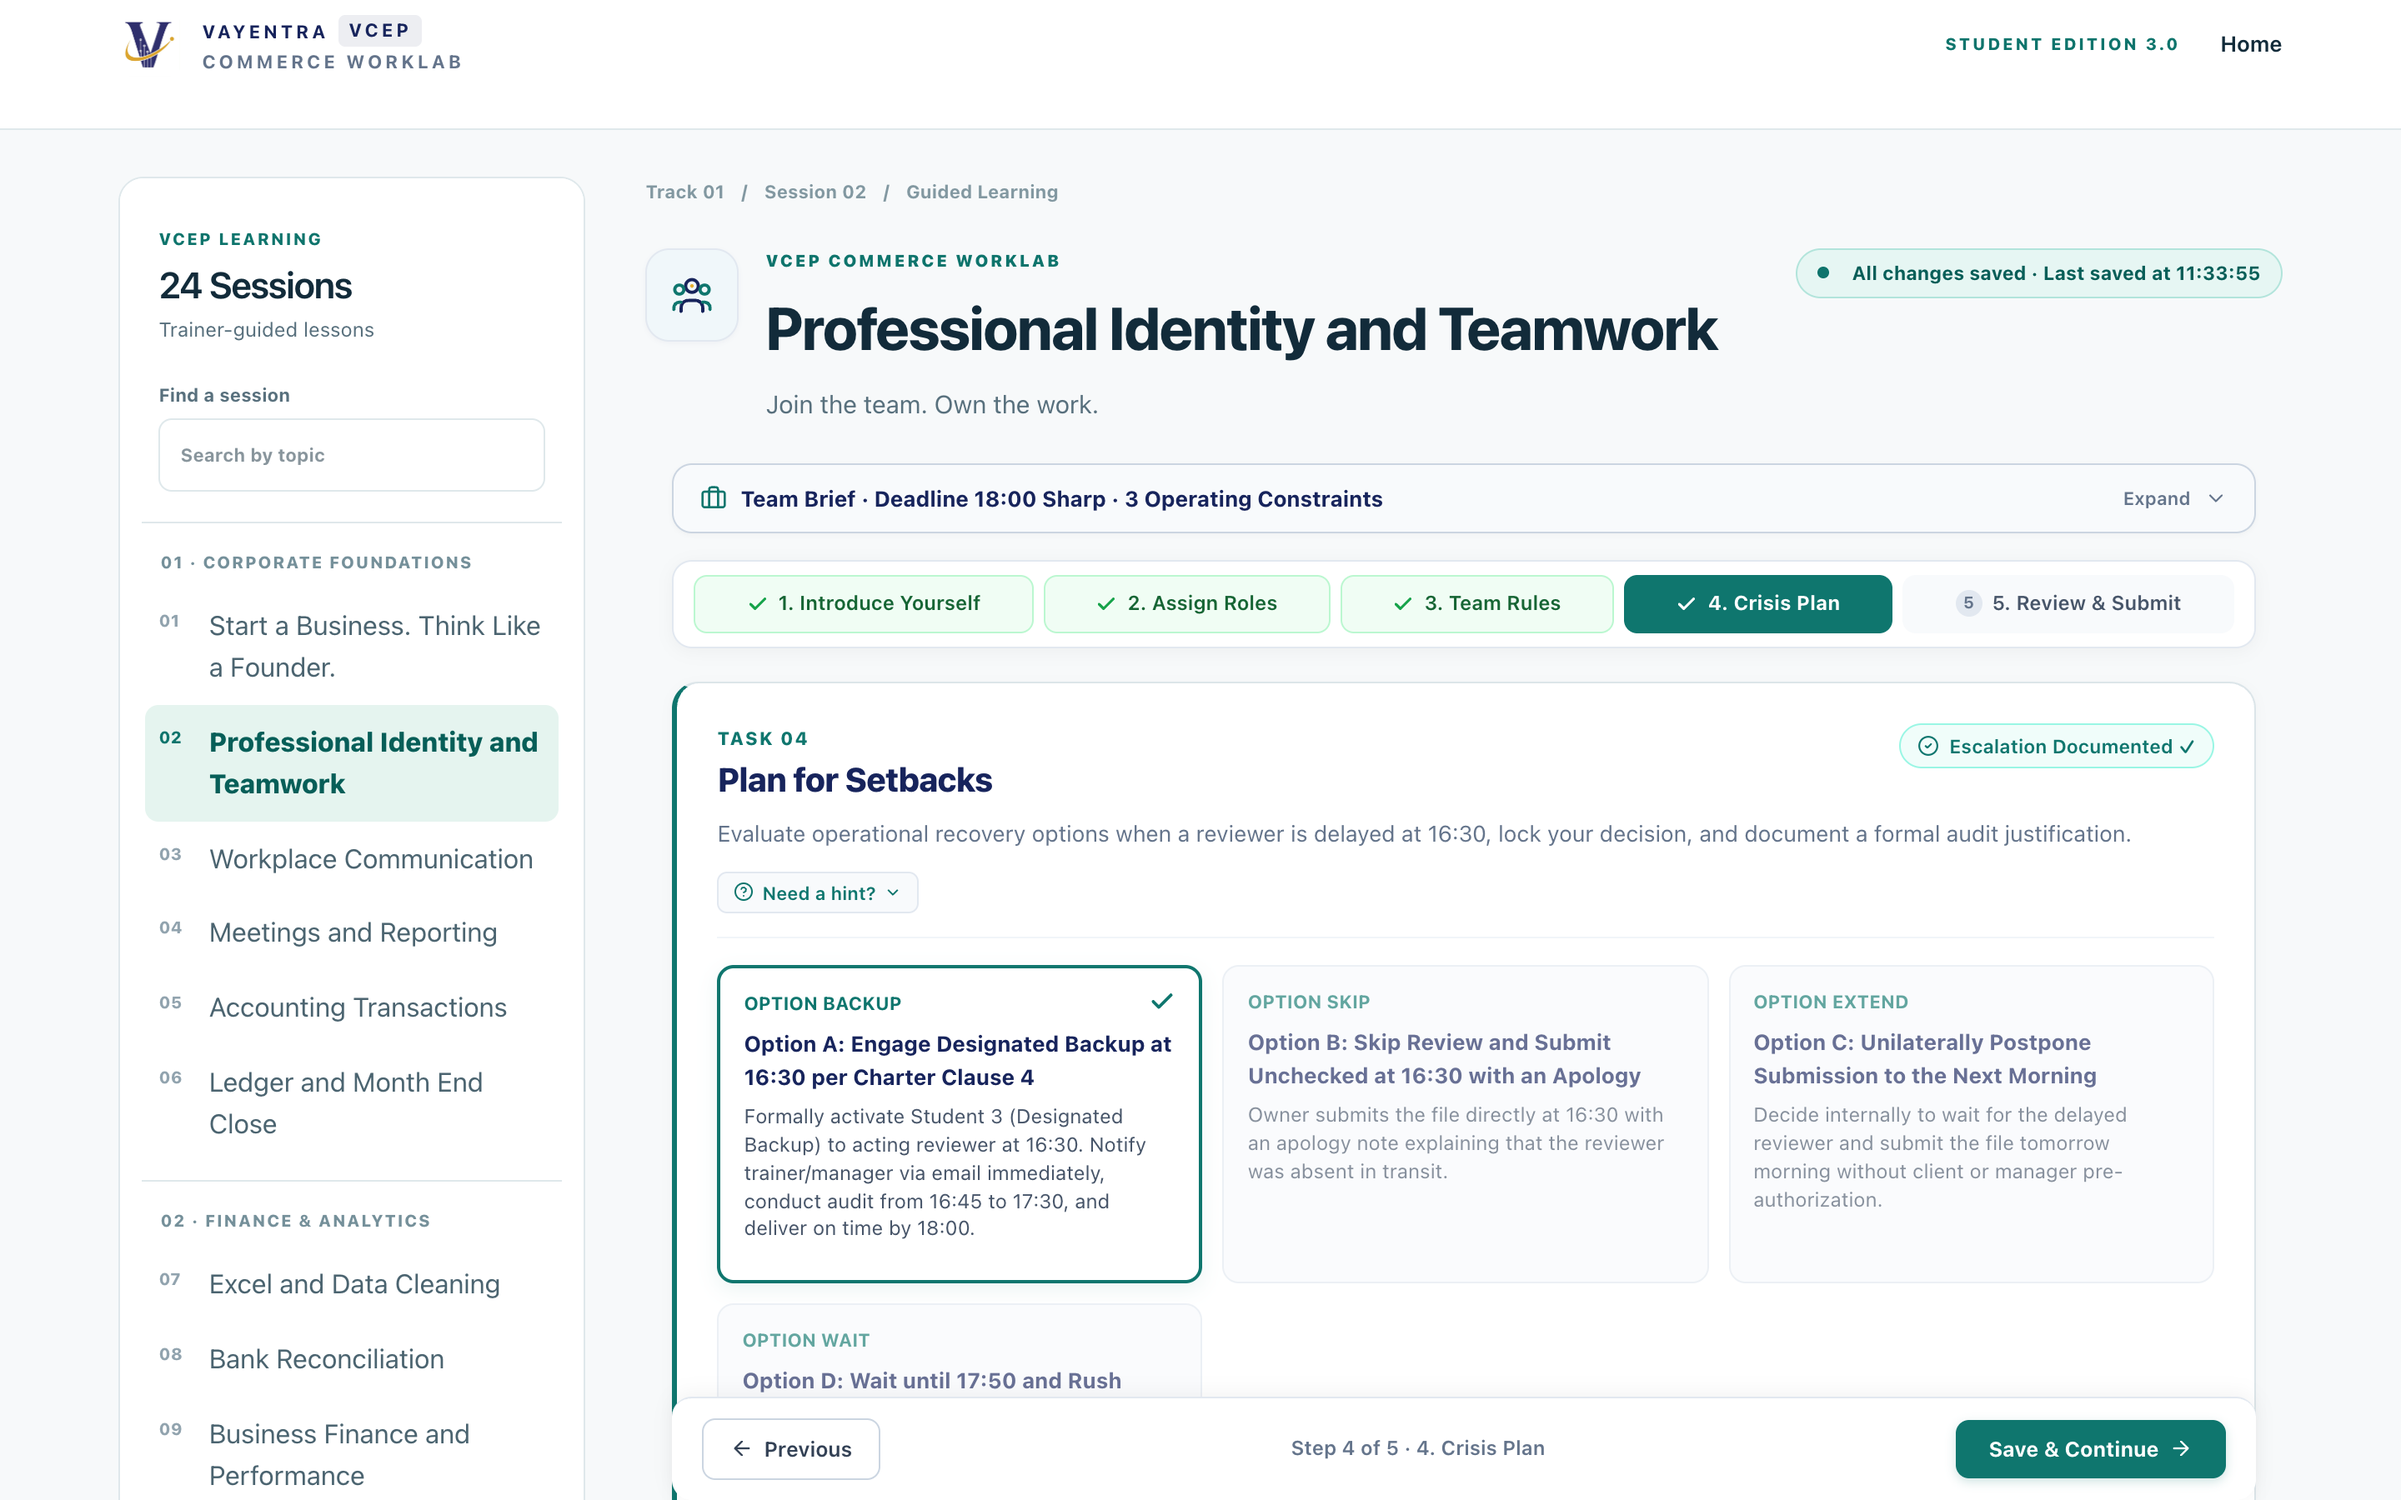
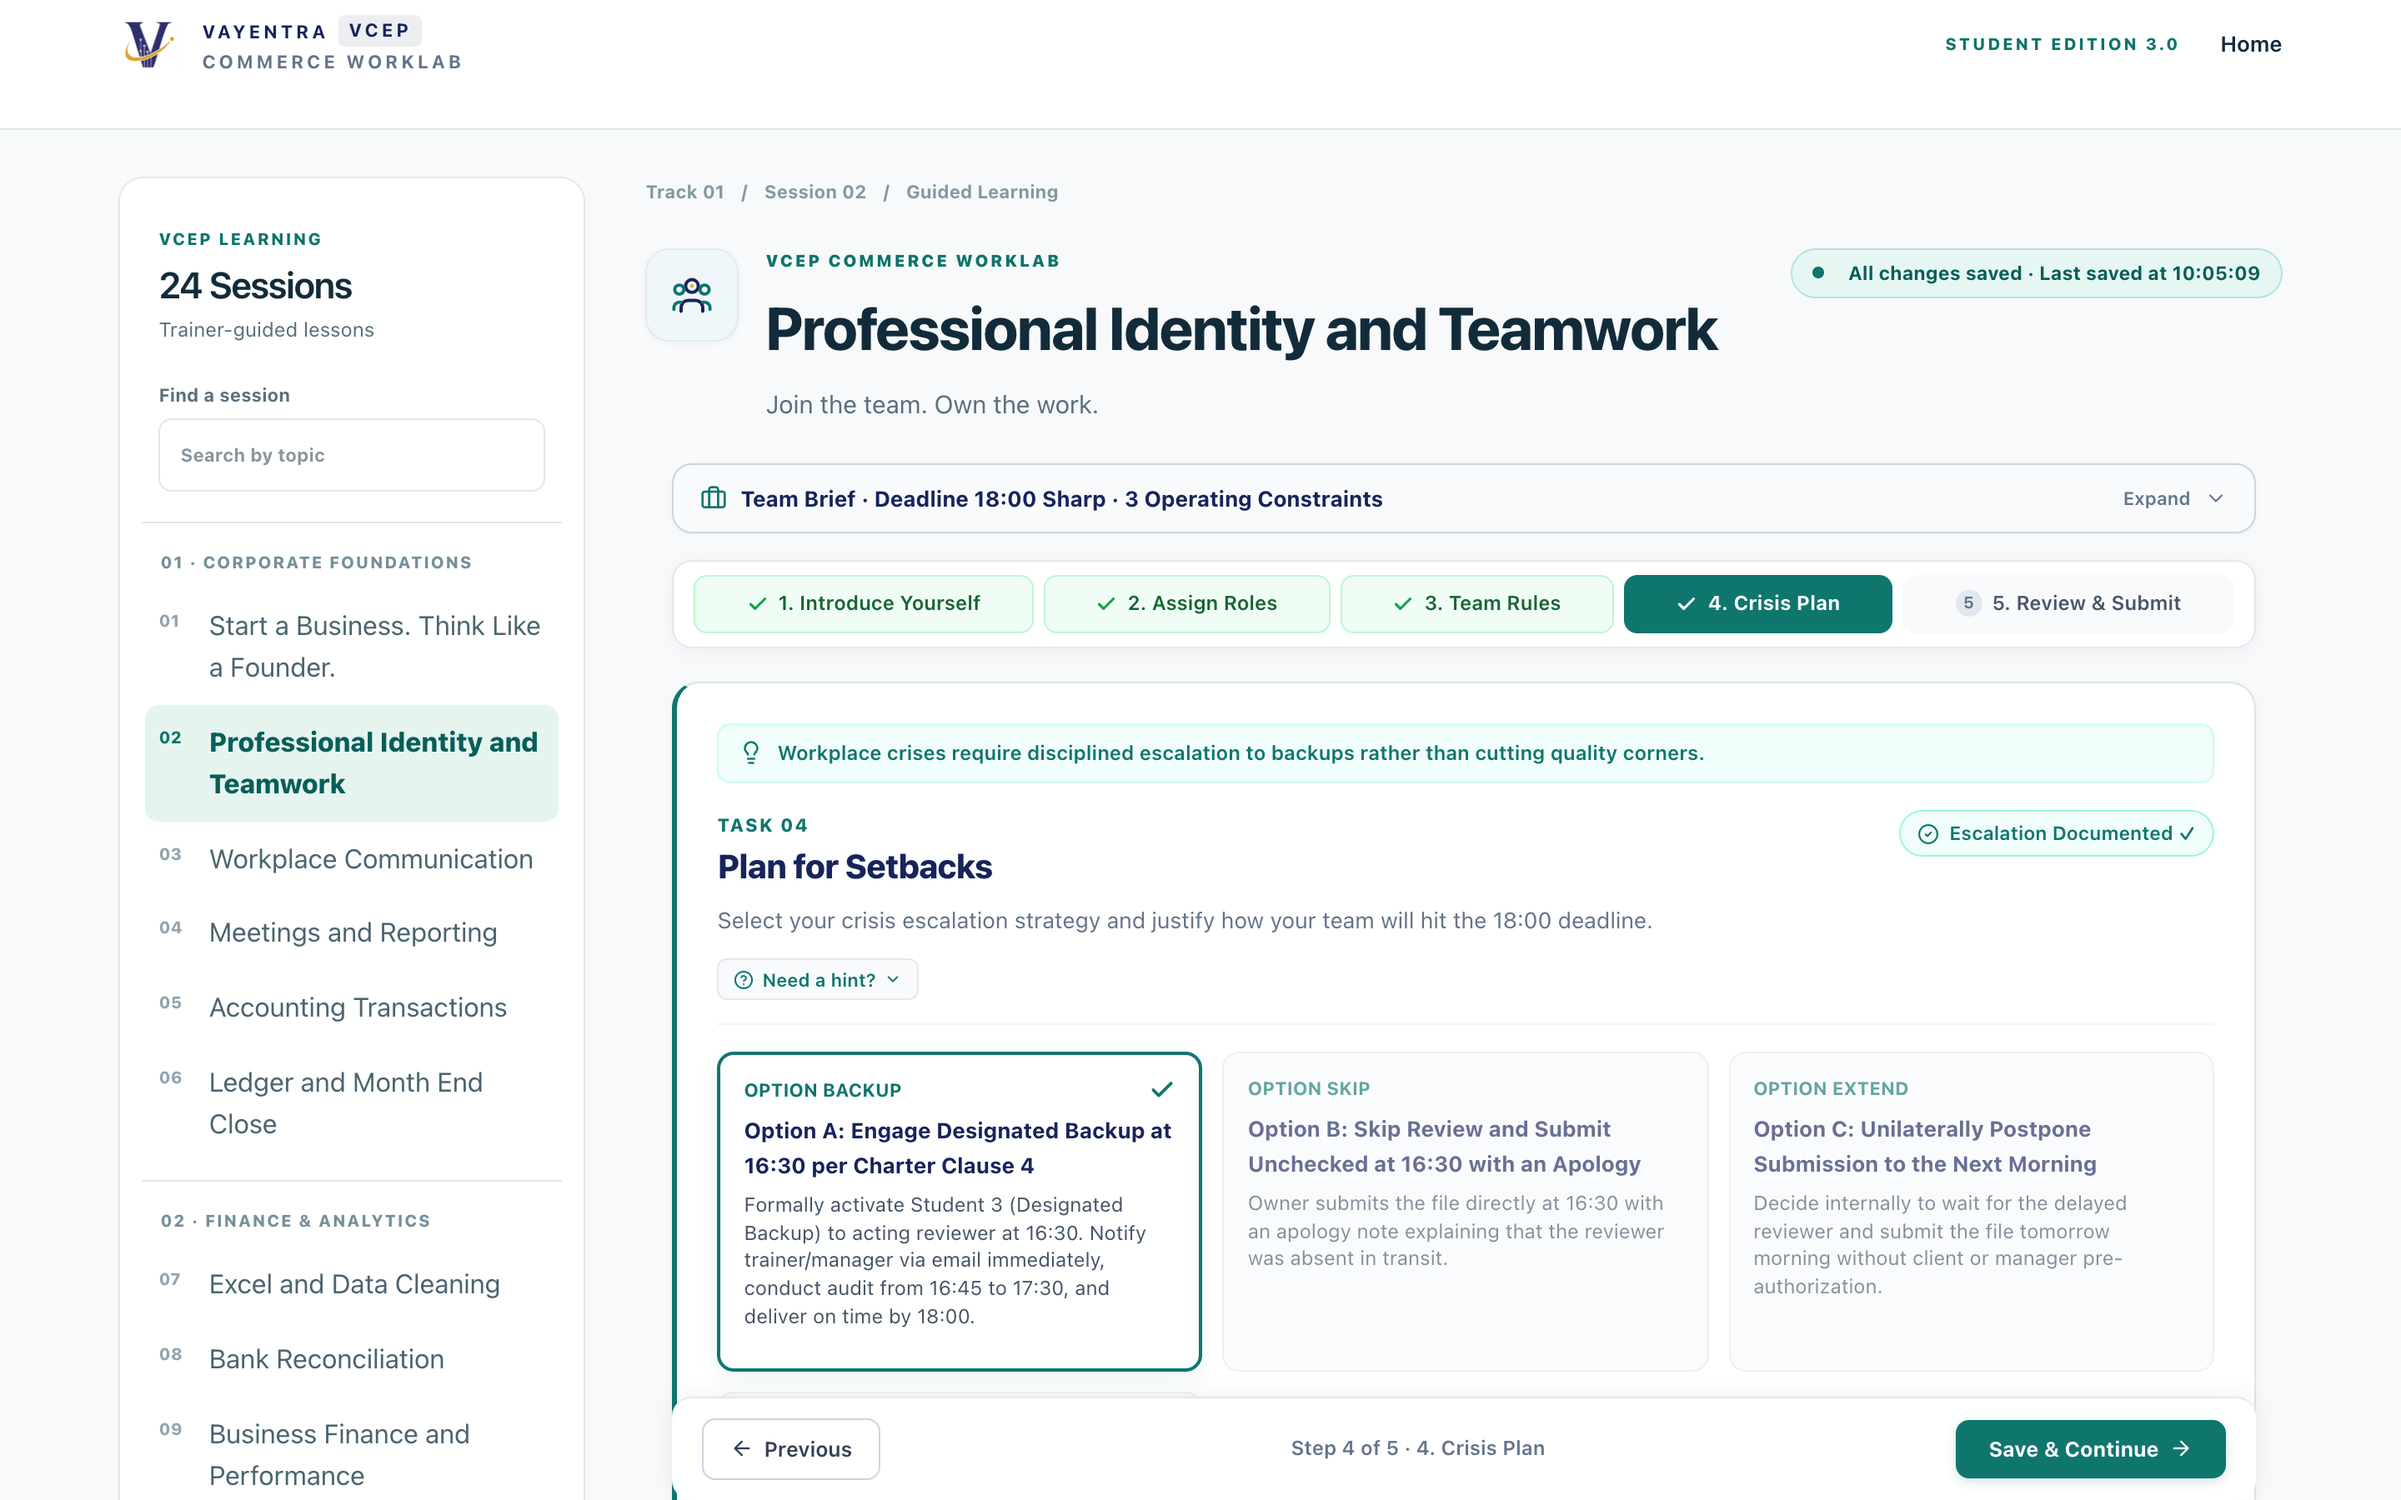
feat(guided-learning): add 1-line teaching takeaways and streamline 5-step simplicity wizard for Session 2

diff --git a/app/guided-learning/components/session-02-teamwork-journey.tsx b/app/guided-learning/components/session-02-teamwork-journey.tsx
@@ -40,6 +40,7 @@ import {
   FileCheck,
   Lock,
   Unlock,
+  Lightbulb,
 } from 'lucide-react';
 
 interface Session02TeamworkJourneyProps {
@@ -56,6 +57,7 @@ interface TaskCardProps {
   taskNumber: string;
   title: string;
   instruction: string;
+  learningTakeaway: string;
   hint?: string;
   statusText?: string;
   isActive?: boolean;
@@ -72,6 +74,7 @@ function TaskCard({
   taskNumber,
   title,
   instruction,
+  learningTakeaway,
   hint,
   statusText,
   isActive,
@@ -94,6 +97,26 @@ function TaskCard({
         boxShadow: '0 2px 8px rgba(0, 0, 0, 0.03)',
       }}
     >
+      {/* 1-Line Teaching Takeaway Banner */}
+      <div
+        style={{
+          display: 'flex',
+          alignItems: 'center',
+          gap: '8px',
+          background: '#f0fdfa',
+          border: '1px solid #ccfbf1',
+          borderRadius: '8px',
+          padding: '8px 12px',
+          marginBottom: '16px',
+          fontSize: '12px',
+          color: '#0f766e',
+          fontWeight: 600,
+        }}
+      >
+        <Lightbulb size={15} color="#0f766e" style={{ flexShrink: 0 }} />
+        <span>{learningTakeaway}</span>
+      </div>
+
       {/* Header */}
       <div
         style={{
@@ -729,8 +752,9 @@ export function Session02TeamworkJourney({
         taskId="S02-T01"
         taskNumber="TASK 01"
         title="Introduce Yourself"
-        instruction="Prepare and rehearse a 90-second professional self-introduction linking a technical commerce skill to entry-level deliverables."
-        hint="Campus recruiters evaluate day-one competence in the first 60–90 seconds. Concrete claims linking technical skills to specific deliverables prove immediate utility."
+        instruction="Draft and practice your 90-second professional self-introduction linking technical skills to workplace deliverables."
+        learningTakeaway="A concise 90-second self-introduction links your commerce skills to immediate team value."
+        hint="Focus on concrete claims. Linking skills to specific deliverables (e.g. reconciliations, journals) proves immediate value."
         statusText={wordCount(state.introText) >= 25 ? 'Intro Saved ✓' : 'Drafting'}
         isActive={activeTaskId === 'S02-T01'}
       >
@@ -904,8 +928,9 @@ export function Session02TeamworkJourney({
         taskId="S02-T02"
         taskNumber="TASK 02"
         title="Assign Team Roles"
-        instruction="Assign core functional responsibilities to each squad member and map planned role rotations across upcoming sessions."
-        hint="Clear role definitions prevent duplicate effort. Rotating roles ensures every squad member builds balanced analytical, operational, and audit capabilities."
+        instruction="Assign squad roles and review the 4-session rotation schedule so every deliverable has one owner."
+        learningTakeaway="Clear role ownership prevents duplicate work and ensures every deliverable has single-point accountability."
+        hint="Single-point accountability means one person owns the final outcome. Backups step in only during emergencies."
         statusText={state.members.every((m) => m.role) ? 'Roles Configured ✓' : 'In Progress'}
         isActive={activeTaskId === 'S02-T02'}
       >
@@ -1092,8 +1117,9 @@ export function Session02TeamworkJourney({
         taskId="S02-T03"
         taskNumber="TASK 03"
         title="Agree on Team Rules"
-        instruction="Negotiate 20-minute shared laptop slots and establish binding charter commitments for quality, SLAs, and backups."
-        hint="A team charter eliminates daily friction by codifying expectations in advance. Equitable 20-minute device slots ensure every student gets hands-on practice."
+        instruction="Allocate 20-minute laptop sharing slots and review your 5-clause squad governance charter."
+        learningTakeaway="Shared team resources require clear scheduling rules so no team member falls behind."
+        hint="Ensure every squad member gets at least 20 minutes keyboard time to build their practical evidence."
         statusText={allMembersMeet20Mins ? 'Rules Agreed ✓' : 'In Progress'}
         isActive={activeTaskId === 'S02-T03'}
       >
@@ -1306,8 +1332,9 @@ export function Session02TeamworkJourney({
         taskId="S02-T04"
         taskNumber="TASK 04"
         title="Plan for Setbacks"
-        instruction="Evaluate operational recovery options when a reviewer is delayed at 16:30, lock your decision, and document a formal audit justification."
-        hint="Operational setbacks happen in every workplace. Activating pre-agreed backup procedures early prevents unverified submissions without missing contract deadlines."
+        instruction="Select your crisis escalation strategy and justify how your team will hit the 18:00 deadline."
+        learningTakeaway="Workplace crises require disciplined escalation to backups rather than cutting quality corners."
+        hint="Never skip review to save time. Activate your pre-agreed backup reviewer to protect quality."
         statusText={decisionLocked && wordCount(state.justification) >= 15 ? 'Escalation Documented ✓' : 'Decision Pending'}
         isActive={activeTaskId === 'S02-T04'}
       >
@@ -1484,7 +1511,8 @@ export function Session02TeamworkJourney({
           taskId="S02-T05"
           taskNumber="TASK 05"
           title="Review & Submit"
-          instruction="Review your completed squad deliverables, confirm attributable integrity, and submit your official attempt for faculty evaluation."
+          instruction="Review your auto-synced answers, attach evidence files, declare integrity, and submit Session 2."
+          learningTakeaway="Submitting verified work with signed integrity declarations builds professional credibility."
           hint="All completed tasks auto-populate directly into your official submission fields. Verify personal reflections and check the attributable declaration."
           statusText={isSubmittedOrGraded ? 'Official Attempt Submitted ✓' : 'Ready for Submission'}
           isActive={activeTaskId === 'S02-T05'}
